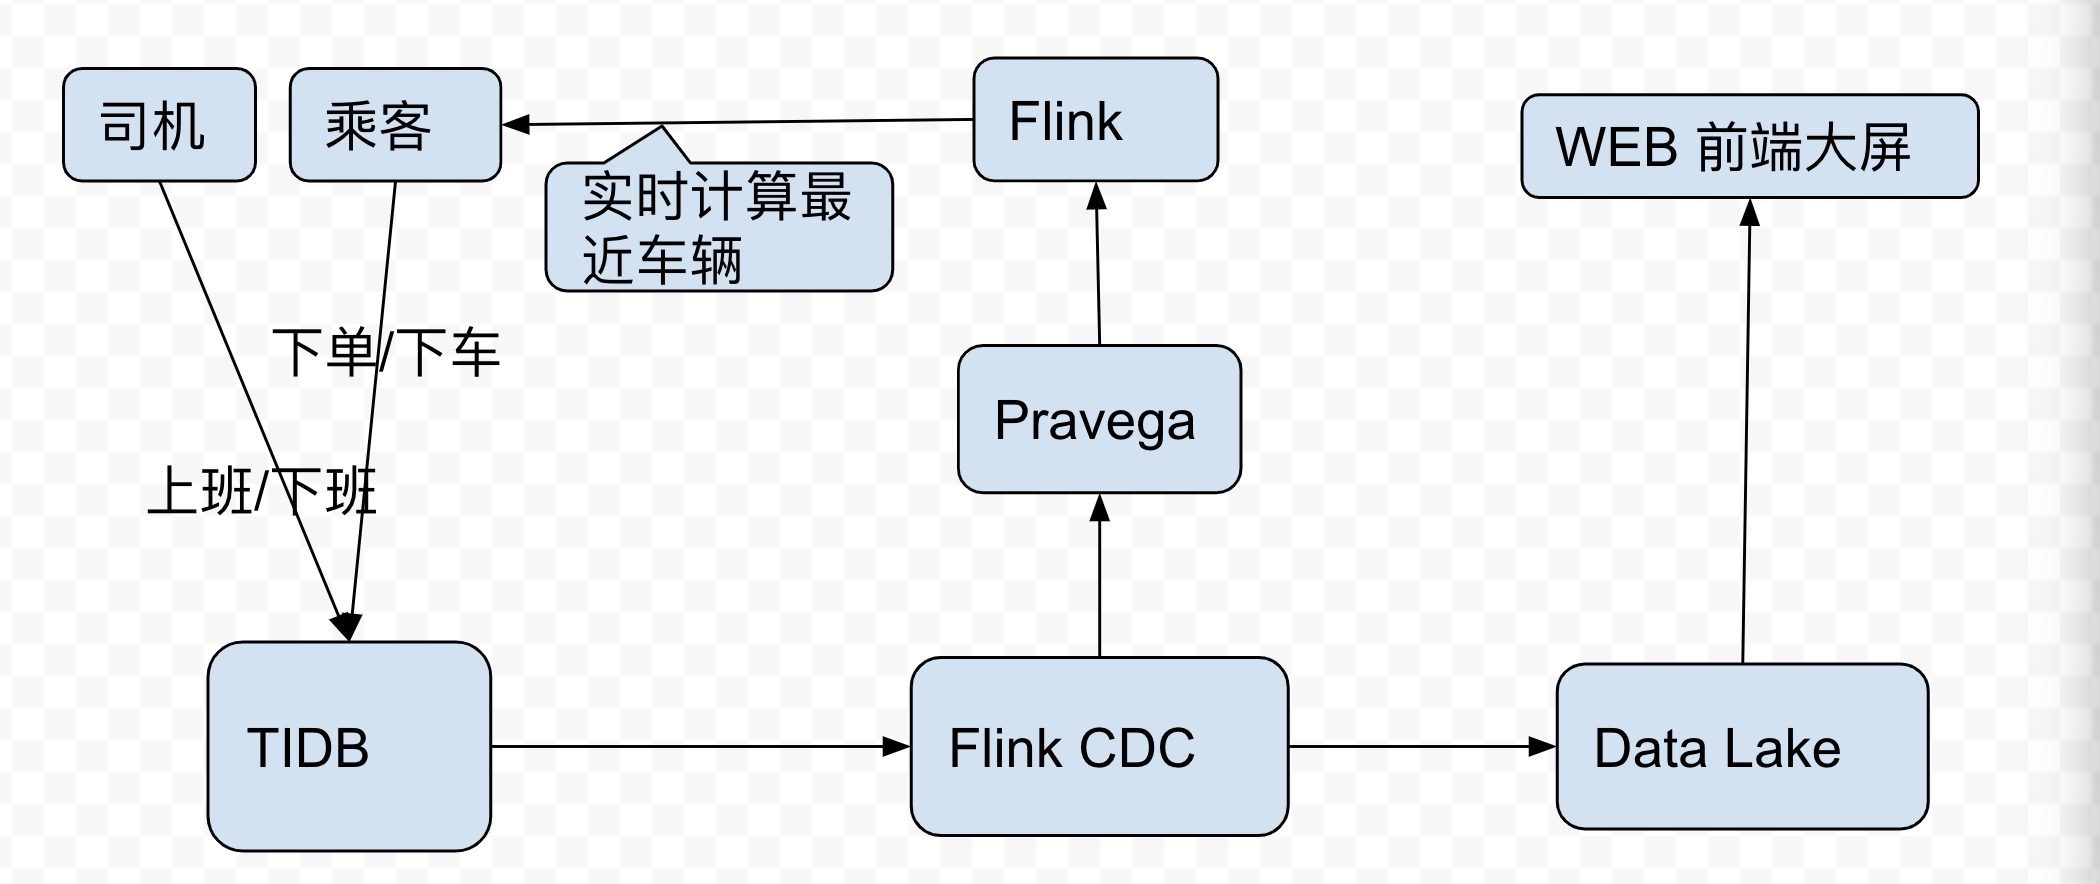
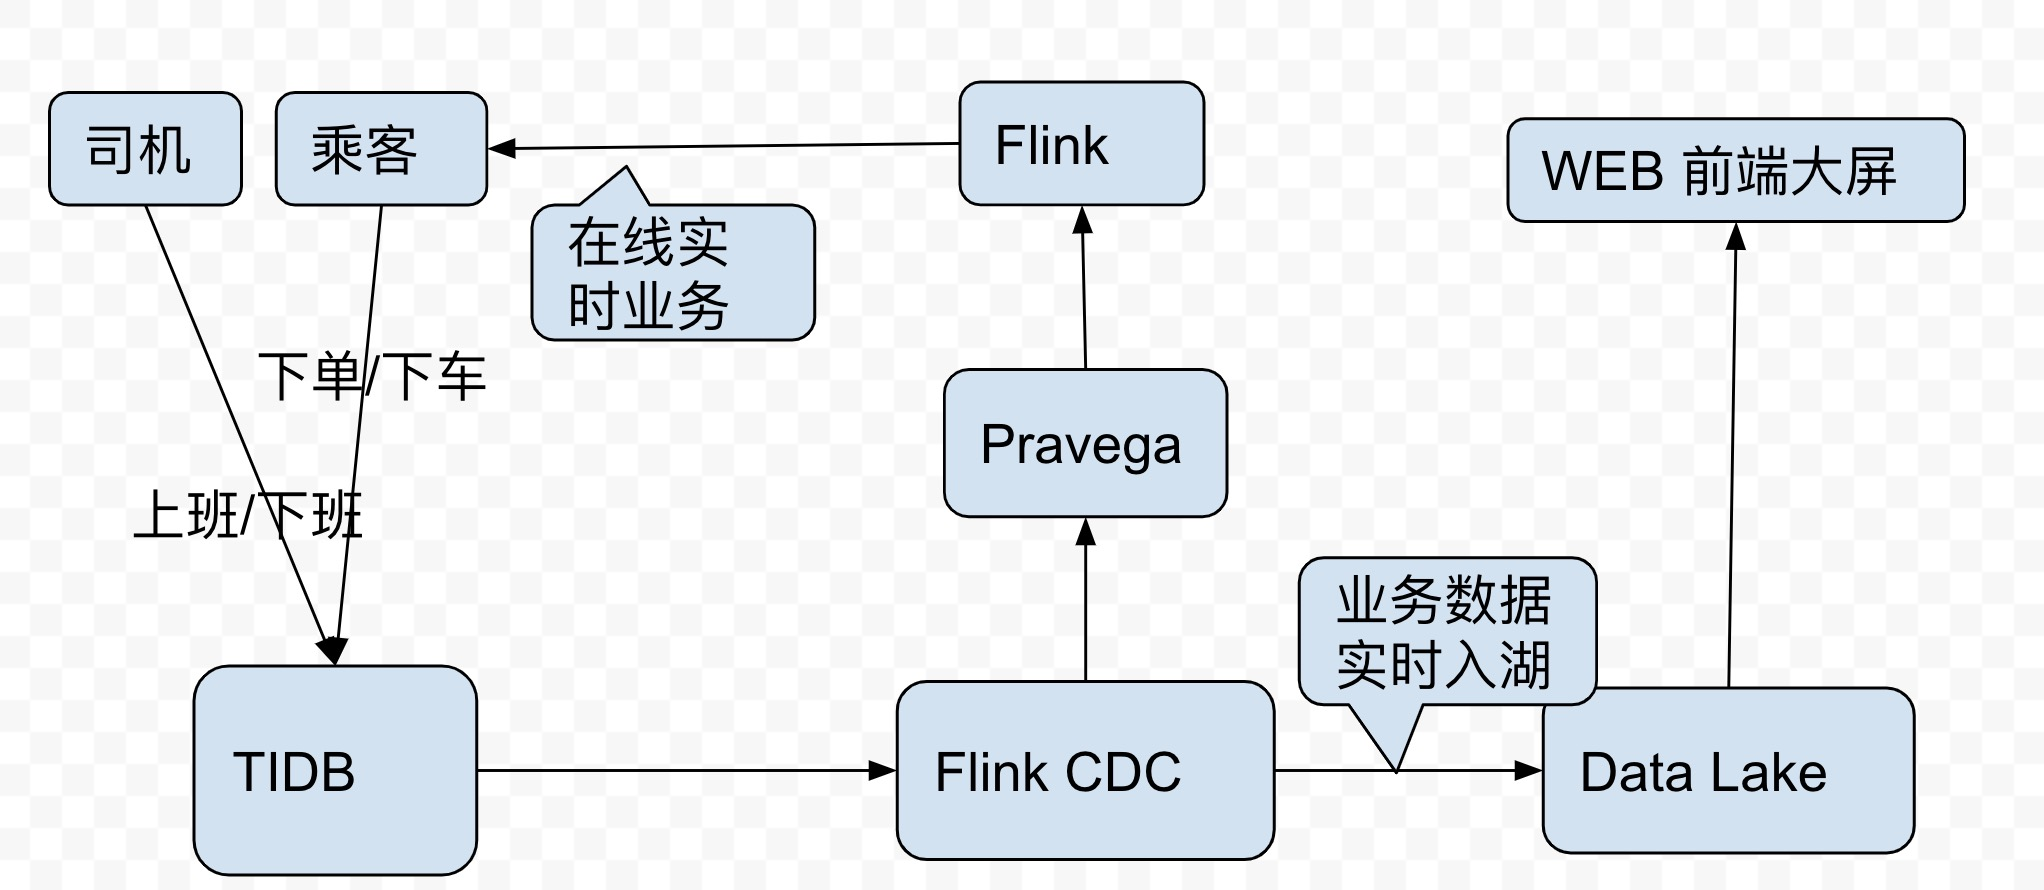
demo: update architecture

diff --git a/docs/demos.md b/docs/demos.md
@@ -88,10 +88,7 @@ commit()
 
 1. 所有数据更新都写入到 TiDB,这里 TIDB 提供 OLTP.
 2. 用户获取最近空闲车辆信息，从 Flink 实时计算获取。
-3. Flink 内存中，存当前所有 car 的状态，以供 2 进行实时计算。
-   1. Flink 在初始化时，将 TiDB 中的 cars 表全量导入到内存。
-   2. 实时更新数据从 Pravega 中获取
-4. TiDB 数据通过 Flink CDC 到 Pravega 和 DataLack
+3. TiDB 数据通过 Flink CDC 到 Pravega 和 DataLake
    1. 实时分析通过 Pravega 提供给 Flink 进行计算
-   2. 离线分析通过 DataLack.
-5. WEB 前端数据从 DataLake 获取（离线分析）
+   2. 离线分析通过 Data Lake.
+4. WEB 前端数据从 DataLake 获取（离线分析）
